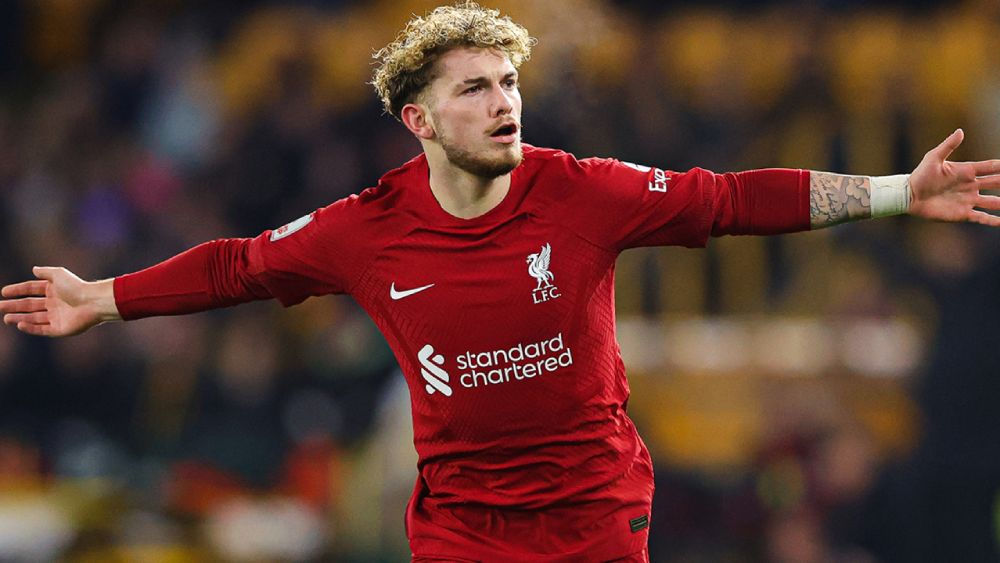
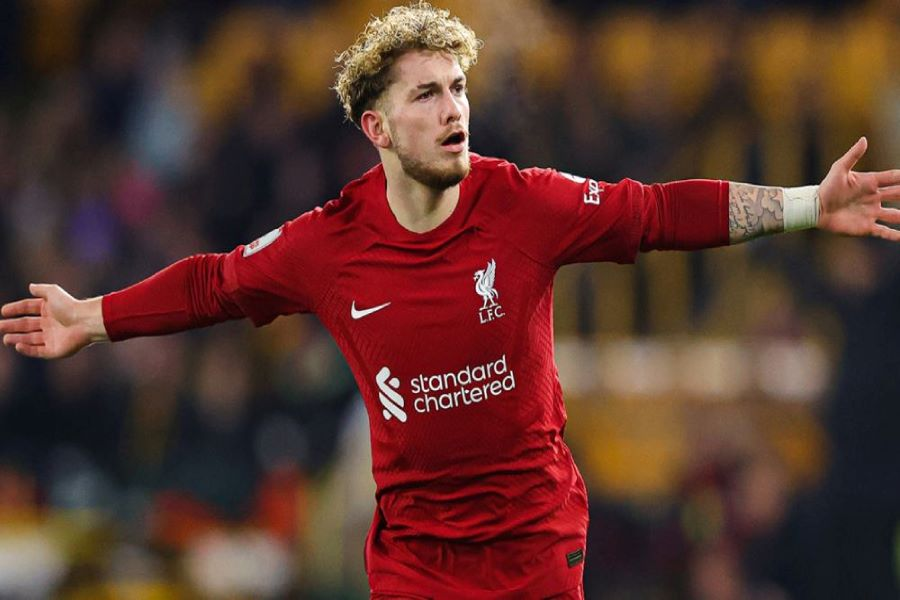
slight improvements
Resizing pictures

diff --git a/index.html b/index.html
@@ -4,7 +4,7 @@
 <head>
     <meta charset="utf-8">
     <meta name="viewport" content="width=device-width, initial-scale=1">
-    <title>Bootstrap demo</title>
+    <title>LFC Fan Club</title>
     <link href="https://cdn.jsdelivr.net/npm/bootstrap@5.3.0-alpha1/dist/css/bootstrap.min.css" rel="stylesheet"
         integrity="sha384-GLhlTQ8iRABdZLl6O3oVMWSktQOp6b7In1Zl3/Jr59b6EGGoI1aFkw7cmDA6j6gD" crossorigin="anonymous">
     <link rel="stylesheet" href="styles.css">
@@ -88,50 +88,47 @@
             </nav>
         </div>
         <!--NAVIGATION BAR ENDS HERE-->
-
-
-        <div id="carousel" class="carousel slide">
-            <div class="carousel-indicators">
-                <button type="button" data-bs-target="#carousel" data-bs-slide-to="0" class="active" aria-current="true"
-                    aria-label="Slide 1"></button>
-                <button type="button" data-bs-target="#carousel" data-bs-slide-to="1" aria-label="Slide 2"></button>
-                <button type="button" data-bs-target="#carousel" data-bs-slide-to="2" aria-label="Slide 3"></button>
-            </div>
-            <div class="carousel-inner">
-                <div class="carousel-item active">
-                    <img src="images/carousel1.jpg" class="d-block w-100" alt="...">
-                    <div class="carousel-caption d-none d-md-block">
-                        <h2>Second slide label</h2>
-                        <p>Some representative placeholder content for the first slide.</p>
-                    </div>
-                </div>
-                <div class="carousel-item">
-                    <img src="images/carousel2.jpg" class="d-block w-100" alt="...">
-                    <div class="carousel-caption d-none d-md-block">
-                        <h5>Second slide label</h5>
-                        <p>Some representative placeholder content for the second slide.</p>
-                    </div>
-                </div>
-                <div class="carousel-item">
-                    <img src="images/carousel3.jpg" class="d-block w-100" alt="...">
-                    <div class="carousel-caption d-none d-md-block">
-                        <h5>Third slide label</h5>
-                        <p>Some representative placeholder content for the third slide.</p>
-                    </div>
-                </div>
-            </div>
-            <button class="carousel-control-prev" type="button" data-bs-target="#carousel" data-bs-slide="prev">
-                <span class="carousel-control-prev-icon" aria-hidden="true"></span>
-                <span class="visually-hidden">Previous</span>
-            </button>
-            <button class="carousel-control-next" type="button" data-bs-target="#carousel" data-bs-slide="next">
-                <span class="carousel-control-next-icon" aria-hidden="true"></span>
-                <span class="visually-hidden">Next</span>
-            </button>
-        </div>
-
     </div> <!-- Header Ends here-->
 
+    <div id="carousel" class="carousel slide">
+        <div class="carousel-indicators">
+            <button type="button" data-bs-target="#carousel" data-bs-slide-to="0" class="active" aria-current="true"
+                aria-label="Slide 1"></button>
+            <button type="button" data-bs-target="#carousel" data-bs-slide-to="1" aria-label="Slide 2"></button>
+            <button type="button" data-bs-target="#carousel" data-bs-slide-to="2" aria-label="Slide 3"></button>
+        </div>
+        <div class="carousel-inner">
+            <div class="carousel-item active">
+                <img src="images/carousel1.jpg" class="d-block w-100" alt="...">
+                <div class="carousel-caption d-none d-md-block">
+                    <h2>Second slide label</h2>
+                    <p>Some representative placeholder content for the first slide.</p>
+                </div>
+            </div>
+            <div class="carousel-item">
+                <img src="images/carousel2.jpg" class="d-block w-100" alt="...">
+                <div class="carousel-caption d-none d-md-block">
+                    <h5>Second slide label</h5>
+                    <p>Some representative placeholder content for the second slide.</p>
+                </div>
+            </div>
+            <div class="carousel-item">
+                <img src="images/carousel3.jpg" class="d-block w-100" alt="...">
+                <div class="carousel-caption d-none d-md-block">
+                    <h5>Third slide label</h5>
+                    <p>Some representative placeholder content for the third slide.</p>
+                </div>
+            </div>
+        </div>
+        <button class="carousel-control-prev" type="button" data-bs-target="#carousel" data-bs-slide="prev">
+            <span class="carousel-control-prev-icon" aria-hidden="true"></span>
+            <span class="visually-hidden">Previous</span>
+        </button>
+        <button class="carousel-control-next" type="button" data-bs-target="#carousel" data-bs-slide="next">
+            <span class="carousel-control-next-icon" aria-hidden="true"></span>
+            <span class="visually-hidden">Next</span>
+        </button>
+    </div>
 
     <!--ARTICLE BEGINS HERE-->
     <article>

diff --git a/styles.css b/styles.css
@@ -214,7 +214,7 @@ body{
    }
 
 .carousel {
-    max-width: 50%;
+    max-width: 90%;
     height: auto;
     padding: 25px 25px 25px 25px;
     margin: auto;
